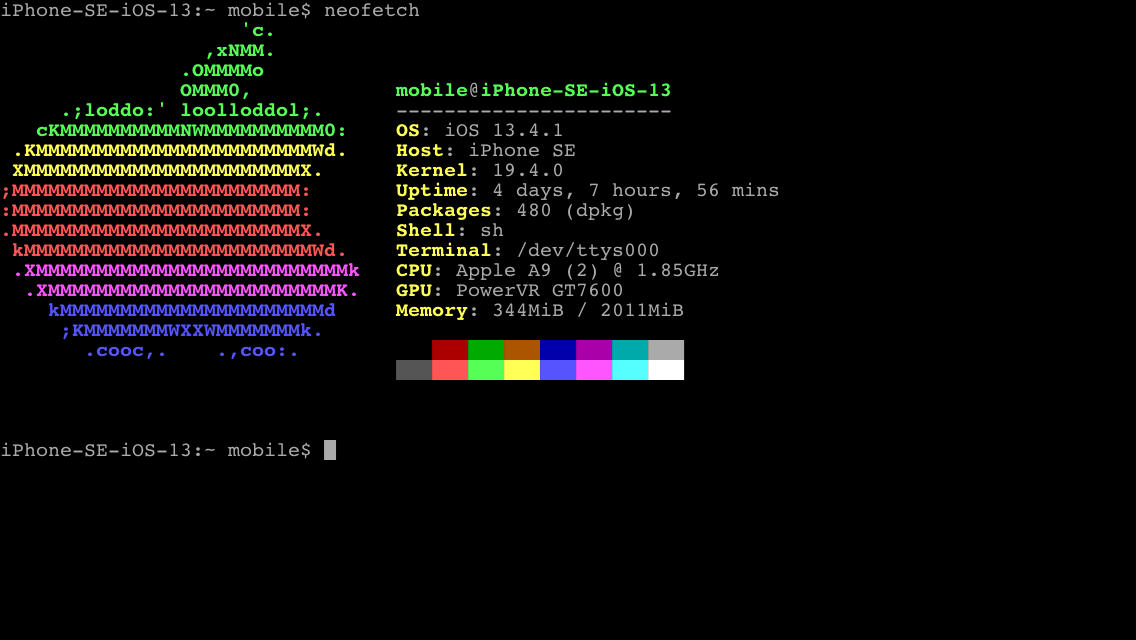
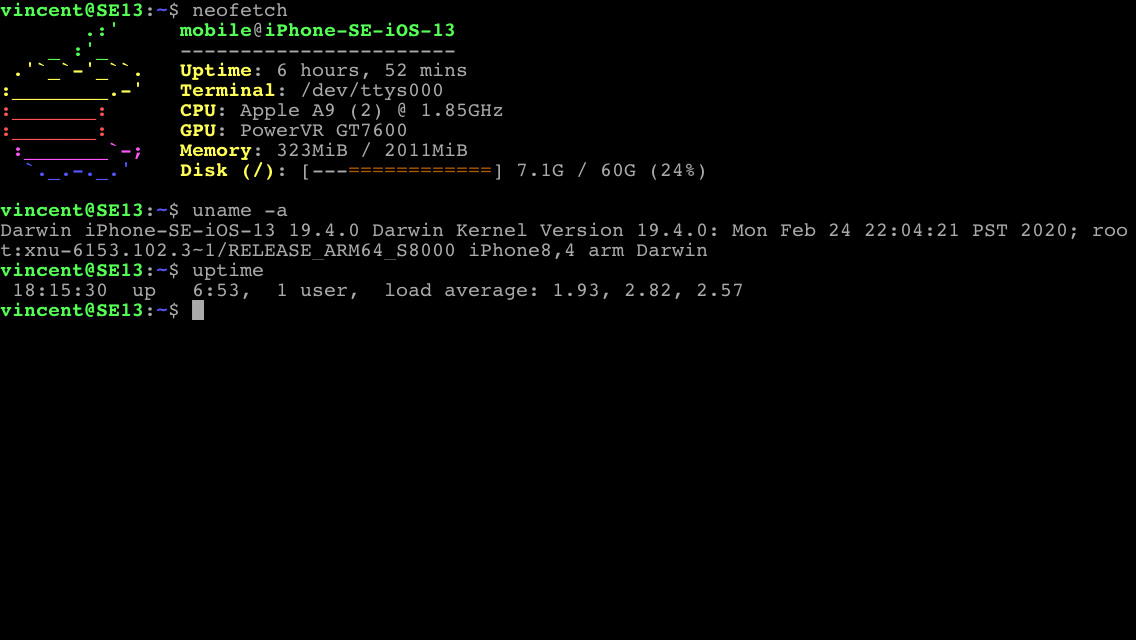
update phone setup

Changed region(s): [[0.0, 0.0, 1.0, 0.5625], [0.3389, 0.5312, 0.6162, 0.5938], [0.0, 0.6875, 0.3081, 0.7188]]

diff --git a/README.md b/README.md
@@ -57,9 +57,8 @@ I use a jailbroken iphone SE (first generation, from 2016) on iOS 13.4.1.
 It has the clang toolchain and SDK installed, so I can (and sometimes do)
 code on this device.
 
-I am jailbroken with a combination of checkra1n and unc0ver, running the
-Elucubratus bootstrap. Though I have Zebra installed, I am weird and
-prefer Cydia.
+I used to use unc0ver v6.2.0, with the elu bootstrap, but recently I
+switched to procursus on Odyssey.
 
 ![](assets/phone.png)
 
